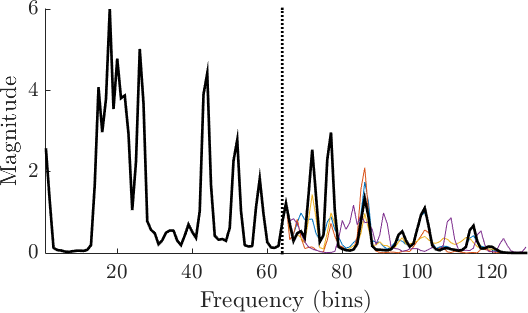
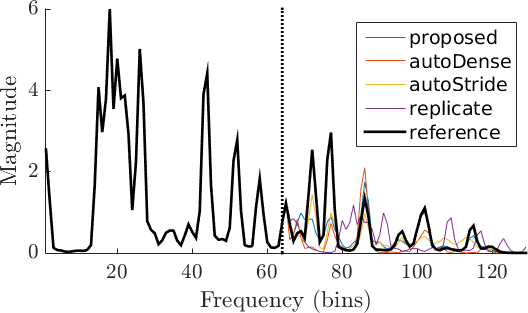
v2

diff --git a/slides/lagrangeBandwidthExtensionSlides.tex b/slides/lagrangeBandwidthExtensionSlides.tex
@@ -144,17 +144,17 @@ point/.style={circle,fill=black,minimum size=2pt},
 line/.style ={draw, thick, -latex',shorten
   >=2pt}]
 
-  % \AtBeginSection[]{
-  %   \begin{frame}
-  %   \vfill
-  %   \centering
-  %   \begin{beamercolorbox}[sep=8pt,center,shadow=true,rounded=true]{title}
-  %     \huge \bf
-  %     \secname\par%
-  %   \end{beamercolorbox}
-  %   \vfill
-  %   \end{frame}
-  % }
+  \AtBeginSection[]{
+    \begin{frame}
+    \vfill
+    \centering
+    \begin{beamercolorbox}[sep=8pt,center,shadow=true,rounded=true]{title}
+      \huge \bf
+      \secname\par%
+    \end{beamercolorbox}
+    \vfill
+    \end{frame}
+  }
 
 % Update itemize to have a default overlay
 %\renewcommand{\itemize}[1][<+(1)->]{\olditemize[#1]}
@@ -188,10 +188,9 @@ Principle of Bandwidth Extension (fig from \footfullcitenomarkleft{dietz2002spec
 \begin{frame}{Previous work}
   \begin{itemize}
     \item \textbf{Spectral band replication (SBR)$^*$}: M. Dietz, L. Liljeryd, K. Kjorling, and O. Kunz. "Spectral band replication, a novel approach in audio coding". In {\em Audio Engineering Society Convention}, 2002.
-    \item \textbf{Non-negative matrix completion (NMC)}: D. Sun and R. Mazumder. Non-negative matrix completion for bandwidth extension: A convex optimization approach. In {\em 2013 IEEE International Workshop on Machine Learning for Signal Processing (MLSP)}, 2013.
+    \item \textbf{Non-negative matrix completion (NMC)}: D. Sun and R. Mazumder. Non-negative matrix completion for bandwidth extension: A convex optimization approach. MLSP, 2013.
     \item \textbf{Autoencoders$^*$}: M.~Miron and M.~E.~P. Davies. High frequency magnitude spectrogram reconstruction for music
-      mixtures using convolutional autoencoders. In {\em In Proc. of the 21st Int. Conference on Digital Audio Effects
-      (DAFx-18)}, 2018.
+      mixtures using convolutional autoencoders. DAFx, 2018.
     \item \textbf{Sample based}: A. Gupta, B. Shillingford, Y. Assael, and T. Walters. Speech bandwidth extension with wavenet, 2019.
   \end{itemize}
   $^*$ will be considered as \textbf{baselines}.
@@ -212,47 +211,46 @@ Principle of Bandwidth Extension (fig from \footfullcitenomarkleft{dietz2002spec
 \end{frame}
 
 \begin{frame}{Proposed model}
-  \begin{minipage}[c]{.5\linewidth}
-  \begin{enumerate}
+  \only<1>{\begin{enumerate}
     \item $L$ layers followed by rectified linear units (ReLU) activations
     \item The number of output convolution channels $C$ is the same for all hidden layers
      \item Convolution kernels also share the same size $(K_t, K_f)$ in the time and frequency dimensions respectively
      \item padding by replicating their boundary values depending on the kernel size
      \item a fixed dilation ratio $D$ is used in the frequency dimension for hidden layers, and no dilation is used in the input and output layers of the network
-  \end{enumerate}
-  \end{minipage}
-  \begin{minipage}[c]{.5\linewidth}
-    \hspace{2cm}\begin{center}
-
+  \end{enumerate}}
+\only<2>{
+ \begin{center}
     \includegraphics[width=.9\linewidth]{mdl}
 
 Proposed deep convolutional neural network architecture for bandwidth extension.
 \end{center}
-  \end{minipage}
+}
 \end{frame}
 
 \begin{frame}{A word on dilation}
-  \begin{minipage}[c]{.4\linewidth}
-  From a signal processing standpoint, this procedure is equivalent to applying the convolution on a down-sampled version of the input. As a result each hidden layer increases the receptive field by $D(K-1)$ frequency bins compared to $K-1$ without dilation.
-  \end{minipage}
-  \begin{minipage}[c]{.55\linewidth}
-  \begin{center}\vspace{1cm}
+  \only<2>{
+  From a signal processing standpoint,
+  \begin{itemize}
+    \item this procedure is equivalent to applying the convolution on a down-sampled version of the input.
+    \item As a result each hidden layer increases the receptive field by $D(K-1)$ frequency bins
+    \item compared to $K-1$ without dilation.
+  \end{itemize}
+}
+\only<1>{
+  \begin{center}
 %  \includegraphics[width=.8\linewidth]{dilation2}
 dilation2
 Dilation can be viewed as a convolution on a downsampled version of the input (fig from \footfullcitenomarkleft{tan2018gated}).
-  \end{center}\vspace{1cm}
-  \end{minipage}
+  \end{center}}
 \end{frame}
 
 \section{Experimental protocol}
 
 \begin{frame}{Datasets}
-
 \begin{enumerate}
   \item \textit{medley-solos-db}: 18 hours, monophonic
   \item \textit{gtzan}: 8 hours, polyphonic
 \end{enumerate}
-
 Pre-processing:
 
 \begin{enumerate}
@@ -292,18 +290,28 @@ Three baselines are considered:
 \begin{frame}{Inspection of predicted high frequencies}
   \centering
 \only<1>{
-    \includegraphics[width = .9\columnwidth]{solos_1141.png}
+    \includegraphics[width = .9\columnwidth]{solos_1141Legend.png}
 
-    Examples of predictions for the \textit{medley-solos-db} dataset. The proposed model handles correctly the harmonic structures.
+  The proposed model handles correctly the harmonic structures (\textit{medley-solos-db} dataset).
   }
   \only<2>{
+      \includegraphics[width = .9\columnwidth]{solos_1141Zoom.png}
+
+    The proposed model handles correctly the harmonic structures (\textit{medley-solos-db} dataset).
+    }
+  \only<3>{
     \includegraphics[width = .9\columnwidth]{gtzan_1120.png}
 
-    Examples of predictions for the \textit{gtzan} dataset. The proposed model handles correctly the average magnitude of complex spectral shapes.
+    The proposed model handles correctly the average magnitude of complex spectral shapes (\textit{gtzan} dataset).
     }
+    \only<4>{
+      \includegraphics[width = .9\columnwidth]{gtzan_1120Zoom.png}
+
+      The proposed model handles correctly the average magnitude of complex spectral shapes (\textit{gtzan} dataset).
+      }
 \end{frame}
 
-\begin{frame}{Impact of dilation}
+\begin{frame}{Impact of dilation on the spectral loss}
   \begin{center}
 \begin{tabular}{llcc}
 $L$ & dilation ($D$) & \textit{medley-solos-db} & \textit{gtzan} \\
@@ -323,7 +331,19 @@ Spectral loss on the testing set for the proposed architecture with $K=17$ and $
   \end{center}
 \end{frame}
 
-\begin{frame}{Perceptually motivated objective performance ($PSM_t$)}
+\begin{frame}{Prediction performance in terms of spectral loss}
+  \begin{center}
+\begin{tabular}{lcc}
+method & \textit{medley-solos-db} & \textit{gtzan} \\
+\hline
+proposed & 0.225 $\pm$0.019 & 0.102 $\pm$0.022 \\
+cnn bottleneck & 0.241 $\pm$0.011 & 0.107 $\pm$0.017 \\
+cnn stride2 & 0.228 $\pm$0.013 & 0.110 $\pm$0.017 \\
+\end{tabular}
+\end{center}
+\end{frame}
+
+\begin{frame}{Perceptually motivated objective performance ($PSM_t$) using the mirror phase estimate}
   \begin{center}
   \begin{tabular}{lcc}
   method & \textit{medley-solos-db} & \textit{gtzan} \\
@@ -338,8 +358,6 @@ Spectral loss on the testing set for the proposed architecture with $K=17$ and $
   \hline
   oracle & 97.2 $\pm$0.3 & 97.2 $\pm$0.6 \\
 \end{tabular}
-
-  $PSM_t$ in \% using the mirror phase estimate.
   \end{center}
 \end{frame}
 
